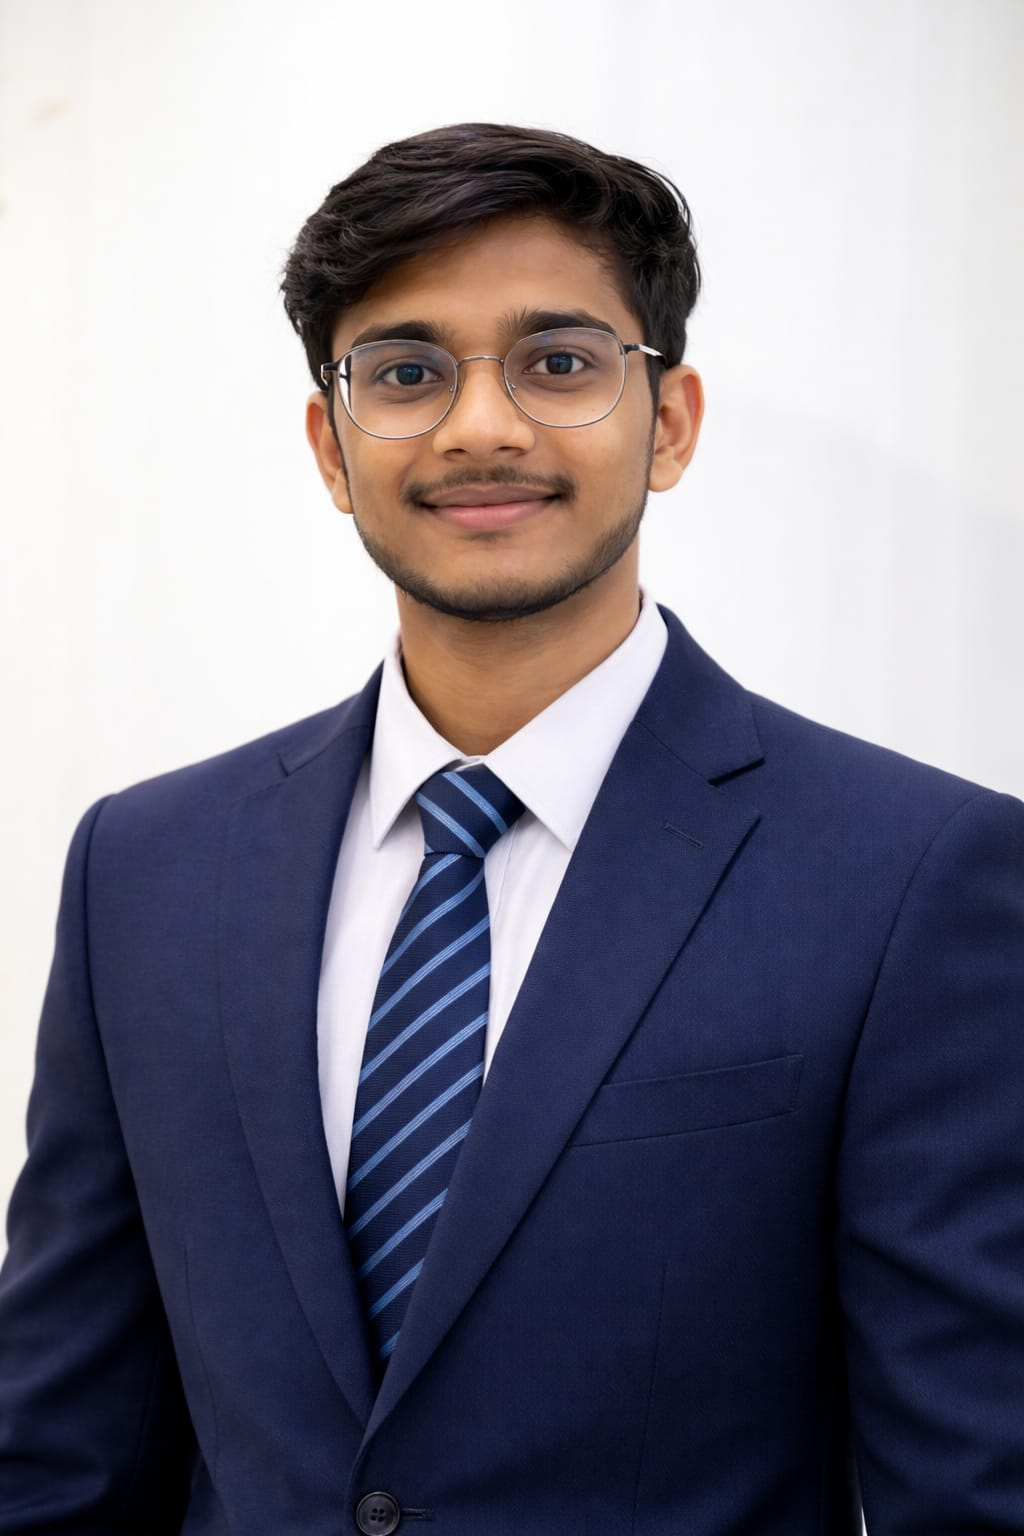
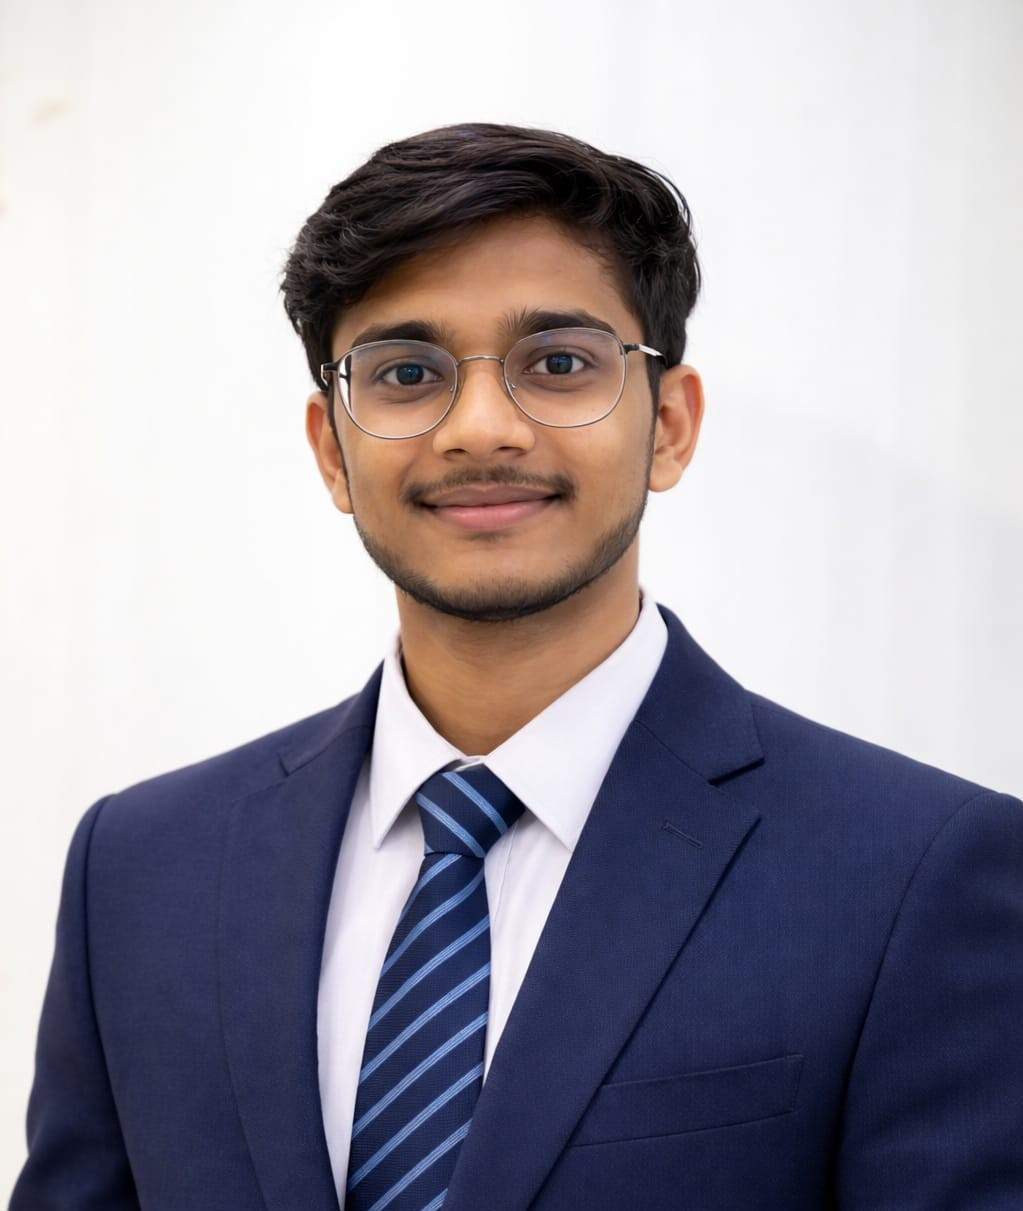
founder page update

diff --git a/Library-System/index.html b/Library-System/index.html
@@ -6,6 +6,7 @@
     <title>Library Book Availability & Recommendation System</title>
     <link rel="stylesheet" href="css/style.css">
     <script defer src="js/script.js"></script>
+    <script defer src="js/backgroundflex.js"></script>
 </head>
 <body>
 
@@ -423,25 +424,48 @@
 
         </div>
     </div>
-    <div>
-        <div>
-            <section style="padding: 60px 20px; background-color: #f9f9f9; text-align: center;">
-    
-    <h2 style="font-size: 36px; margin-bottom: 20px;">Meet Our Founder</h2>
-    
-    <img src="assets/images/founder img.jpeg" alt="Founder Image" 
-         style="width: 200px; height: 200px; border-radius: 15px; object-fit: cover; margin-bottom: 20px;">
-    
-    <h3 style="font-size: 24px; margin-bottom: 10px;">Himanshu Saini</h3>
-    
-    <p style="max-width: 600px; margin: 0 auto; font-size: 16px; color: #555;">
-        Our founder started this journey with a vision to create something meaningful and impactful. 
-        With passion, dedication, and innovation, they continue to lead the company towards success.
+  
+    <!-- Founder Section -->
+<section class="founder">
+
+  <h2>Meet the Project Devloper</h2>
+
+  <div class="founder-container">
+
+    <!-- Left Image -->
+  <div class="founder-badge">
+  <img src="assets/images/badge img.png" class="badge">
+
+  <!-- Yeh photo add karo -->
+  <img src="assets/images/founder img.jpeg" class="profile">
+  </div>
+
+    <!-- Right Content -->
+    <div class="founder-content">
+      <h3>Himanshu Saini</h3>
+      <p class="role">Devloper, BookNest</p>
+
+      <ul>
+        <li>Developed BookNest, a Library Management System to simplify book issuing, returning, and tracking processes</li>
+        <li>Implemented features like book availability check, user management, and real-time status updates</li>
+        <li>Designed a user-friendly interface to improve accessibility and ease of use for students and admins</li>
+        <li>Focused on efficient data handling and structured system design for better performance</li>
+        <li>Built as a B.Tech CSE minor project to solve real-world library management challenges</li>
+      </ul>
+    </div>
+
+  </div>
+
+  <!-- Quote -->
+  <div class="quote">
+    <p>
+     “BookNest aims to make library management simple, efficient, and accessible for everyone.”
     </p>
+    <h4>— Himanshu Saini</h4>
+  </div>
 
 </section>
-        </div>
-    </div>
+
 
     <!-- ================= FOOTER ================= -->
     <footer id="footer">

diff --git a/Library-System/css/style.css b/Library-System/css/style.css
@@ -388,3 +388,94 @@
     background: #2c3e50;
     color: white;
 }
+
+/* Founder Section */
+.founder {
+  padding: 60px 20px;
+  text-align: center;
+}
+
+.founder h2 {
+  font-size: 32px;
+  margin-bottom: 40px;
+  color: #1F2937;
+}
+
+/* Layout */
+.founder-container {
+  display: flex;
+  align-items: center;
+  justify-content: center;
+  gap: 40px;
+  flex-wrap: wrap;
+}
+
+/* Image */
+.founder-img img {
+  width: 250px;
+}
+
+/* Content */
+.founder-content {
+  max-width: 400px;
+  text-align: left;
+}
+
+.founder-content h3 {
+  font-size: 26px;
+  color: #1F2937;
+}
+
+.role {
+  color: #FF7A00;
+  margin-bottom: 15px;
+  font-weight: bold;
+}
+
+.founder-content ul {
+  padding-left: 20px;
+}
+
+.founder-content li {
+  margin-bottom: 10px;
+}
+
+/* Quote */
+.quote {
+  margin-top: 40px;
+  font-style: italic;
+}
+
+.quote p {
+  font-size: 18px;
+  color: #374151;
+}
+
+.quote h4 {
+  margin-top: 10px;
+  color: #1F2937;
+}
+.founder-badge {
+  position: relative;
+  width: 340px;
+}
+
+/* Badge */
+.badge {
+  width: 100%;
+}
+
+/* Profile image (circle ke andar) */
+.profile {
+  position: absolute;
+  top: 31px;       /* adjust kar sakta hai */
+  left: 51%;
+  transform: translateX(-50%);
+  
+  width: 190px;
+  height: 190px;
+  border-radius: 50%;
+  object-fit: cover;
+
+
+}

diff --git a/Library-System/book pdfs/premiumbook5.html b/Library-System/book pdfs/premiumbook5.html
@@ -67,7 +67,7 @@ button:hover{
 
 <div class="container">
     
-    <img src="http://127.0.0.1:5500/PROJEXA-Tech-Titans/Library-System/assets/images/book5.jpg" alt="" class="book-img">
+    <img src="http://127.0.0.1:5500/Library-System/assets/images/book5.jpg" alt="" class="book-img">
 
     <h2>You Become What You Think: Master Your Mind, Master Your Life</h2>
 

diff --git a/Library-System/book pdfs/premiumbook9.html b/Library-System/book pdfs/premiumbook9.html
@@ -67,7 +67,7 @@ button:hover{
 
 <div class="container">
     
-    <img src="http://127.0.0.1:5500/PROJEXA-Tech-Titans/Library-System/assets/images/book9.jpg" alt="" class="book-img">
+    <img src="http://127.0.0.1:5500/Library-System/assets/images/book9.jpg" alt="" class="book-img">
 
     <h2>Harry Potter and the Philosopher's Stone</h2>
 

diff --git a/Library-System/book pdfs/premiumbook14.html b/Library-System/book pdfs/premiumbook14.html
@@ -67,7 +67,7 @@ button:hover{
 
 <div class="container">
     
-    <img src="http://127.0.0.1:5500/PROJEXA-Tech-Titans/Library-System/assets/images/book14.jpg" alt="" class="book-img">
+    <img src="http://127.0.0.1:5500/Library-System/assets/images/book14.jpg" alt="" class="book-img">
 
     <h2>Destiny Of Souls</h2>
 

diff --git a/Library-System/book pdfs/premiumbook7.html b/Library-System/book pdfs/premiumbook7.html
@@ -67,7 +67,7 @@ button:hover{
 
 <div class="container">
     
-    <img src="http://127.0.0.1:5500/PROJEXA-Tech-Titans/Library-System/assets/images/book7.jpg" alt="" class="book-img">
+    <img src="http://127.0.0.1:5500/Library-System/assets/images/book7.jpg" alt="" class="book-img">
 
     <h2>Never Lost Book</h2>
 
